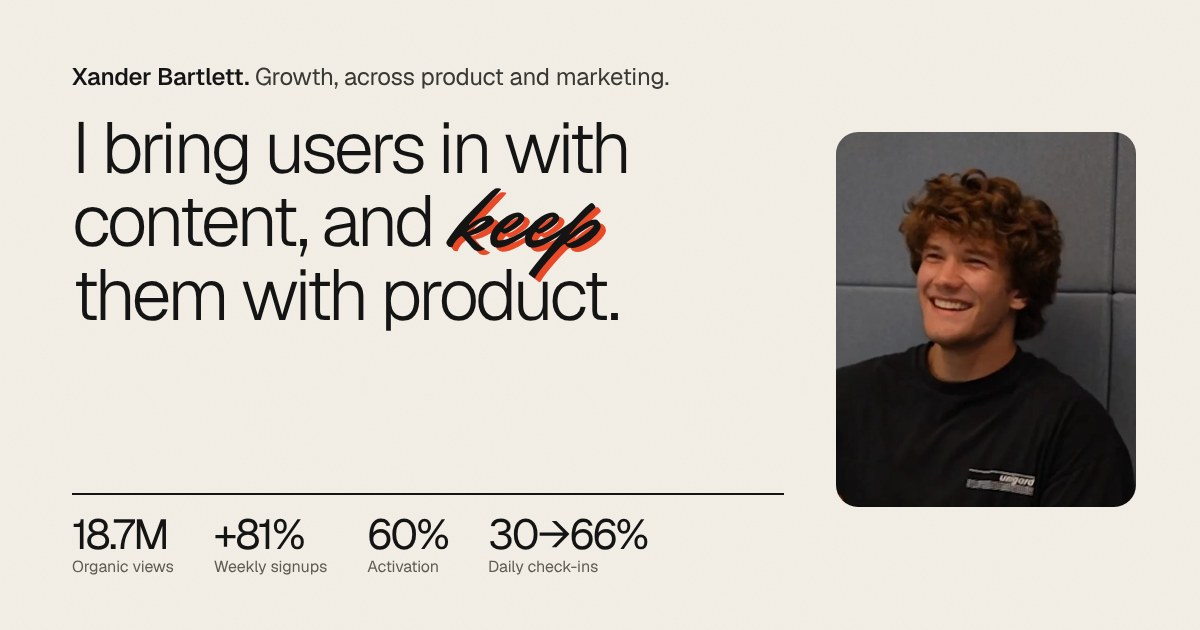
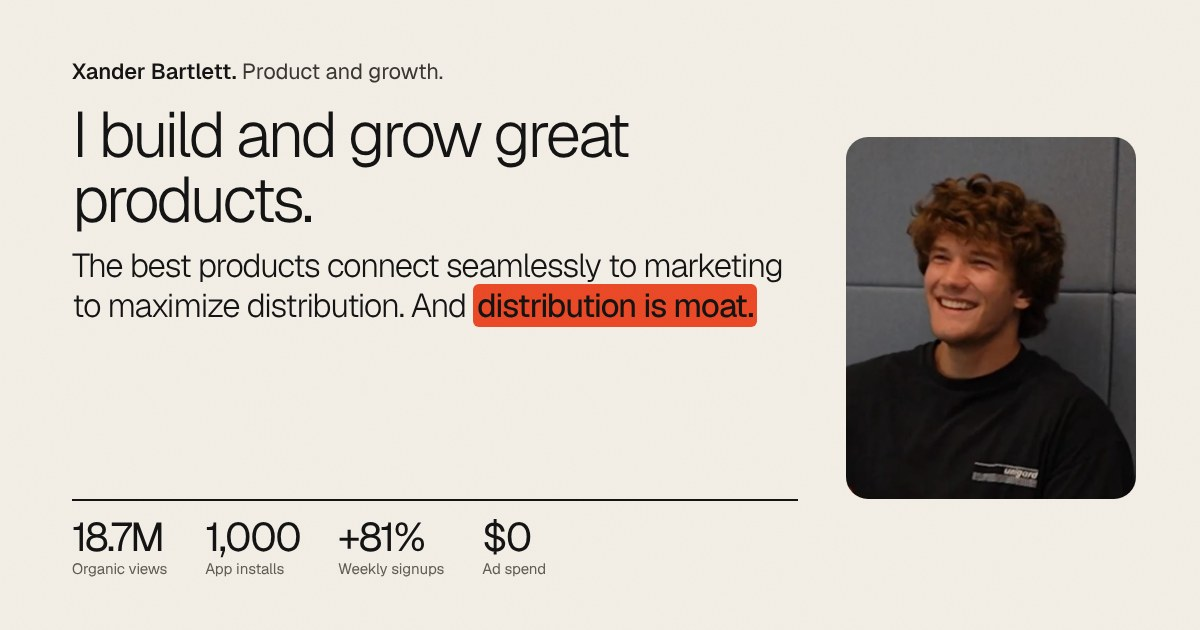
Main page: "I build and grow great products" with highlighted thesis
Headline "I build and grow great products." followed by the thesis
"The best products connect seamlessly to marketing to maximize
distribution. And distribution is moat." with the last clause in a
vermilion highlight that sweeps in on load. The proof line returns to
the Remira and Aether results, now credited to GTM engineering, with
the original four numbers. Link-preview image and README updated.

Claude-Session: https://claude.ai/code/session_01ERgzM68gRjhJ8qgRKkrqhA

diff --git a/index.html b/index.html
@@ -3,13 +3,13 @@
 <head>
 <meta charset="utf-8">
 <meta name="viewport" content="width=device-width, initial-scale=1, viewport-fit=cover">
-<title>Xander Bartlett · Growth across product and marketing</title>
-<meta name="description" content="I bring users in with content and keep them with product. 18.7M organic views and +81% weekly signups at $0 in ads; 60% activation and daily check-ins up from 30% to 66%.">
+<title>Xander Bartlett · Distribution is moat</title>
+<meta name="description" content="I build and grow great products. The best products connect seamlessly to marketing to maximize distribution, and distribution is moat. With GTM engineering I took a Type 1 diabetes app from zero to 1,000 installs and lifted a developer tool's weekly signups 81%, at $0 in ads.">
 <meta name="theme-color" content="#f4f0e8">
 <link rel="icon" href="assets/img/favicon.svg" type="image/svg+xml">
 <meta property="og:type" content="website">
-<meta property="og:title" content="Xander Bartlett · I bring users in with content, and keep them with product">
-<meta property="og:description" content="Marketing: 18.7M organic views and +81% weekly signups at $0 in ads. Product: 60% activation and daily check-ins up from 30% to 66%.">
+<meta property="og:title" content="Xander Bartlett · I build and grow great products">
+<meta property="og:description" content="The best products connect seamlessly to marketing to maximize distribution. And distribution is moat. 1,000 installs and +81% weekly signups with GTM engineering, at $0 in ads.">
 <meta property="og:image" content="https://xanderbartlett.com/assets/img/og.jpg">
 <meta name="twitter:card" content="summary_large_image">
 <link rel="preload" href="assets/fonts/geist-latin.woff2" as="font" type="font/woff2" crossorigin>
@@ -17,6 +17,18 @@
 <link rel="preload" href="assets/fonts/mr-dafoe-latin.woff2" as="font" type="font/woff2" crossorigin>
 <link rel="stylesheet" href="assets/css/site.css">
 <style>
+  /* ---------- main-page pitch: headline, thesis, highlighted claim ---------- */
+  .pitch h1.pitch-h { max-width: none; font-size: 5.2rem; }
+  .thesis { margin-top: 0.9rem; max-width: 30ch; font-weight: 300; font-size: 2.35rem; line-height: 1.18; letter-spacing: -0.035em; color: var(--ink); }
+  .hl {
+    color: var(--ink); font-weight: 450; white-space: nowrap;
+    padding: 0 0.12em; margin: 0 -0.04em; border-radius: 0.18em;
+    background: linear-gradient(100deg, rgba(236, 74, 39, 0.92), var(--accent) 60%, rgba(236, 74, 39, 0.8)) no-repeat 0 62% / 100% 78%;
+    -webkit-box-decoration-break: clone; box-decoration-break: clone;
+    animation: hl-sweep 0.9s var(--ease) 0.75s both;
+  }
+  @keyframes hl-sweep { from { background-size: 0% 78%; } }
+
   /* ---------- below the fold: taste + gallery ---------- */
   .signoff { max-width: var(--max); margin: 0 auto; padding: 2.4rem var(--gutter) 1.2rem; border-top: 0; }
   .signoff p { font-weight: 300; font-size: 3rem; letter-spacing: -0.045em; line-height: 1; }
@@ -34,6 +46,9 @@
 
   @media (max-width: 900px) {
     .signoff p { font-size: 2.1rem; }
+    .pitch h1.pitch-h { font-size: 2.7rem; }
+    .thesis { font-size: 1.45rem; max-width: none; }
+    .hl { white-space: normal; }
     .gallery__row { flex-wrap: wrap; gap: 0.7rem; }
     .gallery__row + .gallery__row { margin-top: 0.7rem; }
     .gallery figure { flex: 1 1 calc(50% - 0.35rem); aspect-ratio: 4 / 5; }
@@ -56,14 +71,15 @@
 
     <section class="pitch" aria-labelledby="pitch-h">
       <div class="pitch__copy">
-        <p class="kicker rise"><b>Xander Bartlett.</b> Growth, across product and marketing.</p>
-        <h1 id="pitch-h" class="rise" style="--d:1">I bring users in with content, and <span class="scr">keep</span> them with product.</h1>
-        <p class="proof rise" style="--d:2"><strong>Marketing:</strong> 18.7M organic views and +81% weekly signups, with $0 in ads. <strong>Product:</strong> 60% of installs activated, and daily check-ins rose from 30% to 66% after I redesigned the flow.</p>
-        <div class="nums rise" style="--d:3" aria-label="Results">
+        <p class="kicker rise"><b>Xander Bartlett.</b> Product and growth.</p>
+        <h1 id="pitch-h" class="pitch-h rise" style="--d:1">I build and grow great products.</h1>
+        <p class="thesis rise" style="--d:2">The best products connect seamlessly to marketing to maximize distribution. And <mark class="hl">distribution is moat.</mark></p>
+        <p class="proof rise" style="--d:3">With GTM engineering, I took a Type 1 diabetes app from <strong>zero to 1,000 installs in four months</strong> and lifted a developer tool's <strong>weekly signups 81% in four weeks</strong>. Neither spent a dollar on ads.</p>
+        <div class="nums rise" style="--d:4" aria-label="Results">
           <div><div class="v">18.7M</div><div class="k">Organic views</div></div>
+          <div><div class="v">1,000</div><div class="k">App installs</div></div>
           <div><div class="v">+81%</div><div class="k">Weekly signups</div></div>
-          <div><div class="v">60%</div><div class="k">Activation</div></div>
-          <div><div class="v">30&rarr;66%</div><div class="k">Daily check-ins</div></div>
+          <div><div class="v">$0</div><div class="k">Ad spend</div></div>
         </div>
       </div>
       <figure class="portrait rise" style="--d:2"><img src="assets/img/me-portrait.jpg" width="590" height="738" alt="Xander Bartlett, smiling, in a black t-shirt"></figure>
@@ -116,7 +132,7 @@
       <details>
         <summary>
           <h2>Accomplishments</h2>
-          <span class="peek">18.7M views &middot; +81% signups &middot; 60% activated</span>
+          <span class="peek">18.7M views &middot; 1,000 installs &middot; +81% signups</span>
           <span class="plus" aria-hidden="true">+</span>
         </summary>
         <ol>

diff --git a/README.md b/README.md
@@ -6,7 +6,7 @@ Personal site for Xander Bartlett: plain static HTML and CSS, no build step. Eve
 
 | Path | What it is |
 | --- | --- |
-| `/` | The growth landing page: one pitch ("I bring users in with content, and keep them with product"), four proof numbers and a photo. Roles and Accomplishments fold open underneath; the case-study pages, the taste lettering and the photo gallery sit below |
+| `/` | The main landing page: "I build and grow great products," the thesis ending in a highlighted "distribution is moat," a GTM-engineering proof line, four numbers and a photo. Roles and Accomplishments fold open underneath; the case-study pages, the taste lettering and the photo gallery sit below |
 | `/pm/` | The PM landing page, same layout: "I build for what users do, not what they say," with product roles, accomplishments and links into the product case studies |
 | `/gtm/` | GTM Strategy & Engineering: "Distribution is moat." Six key skills, then Aether (main) and Remira as cards |
 | `/product/` | Product Management and Design: "Ideas are nothing without team execution." Remira, Prove Your Pick, New Wave Capital |
